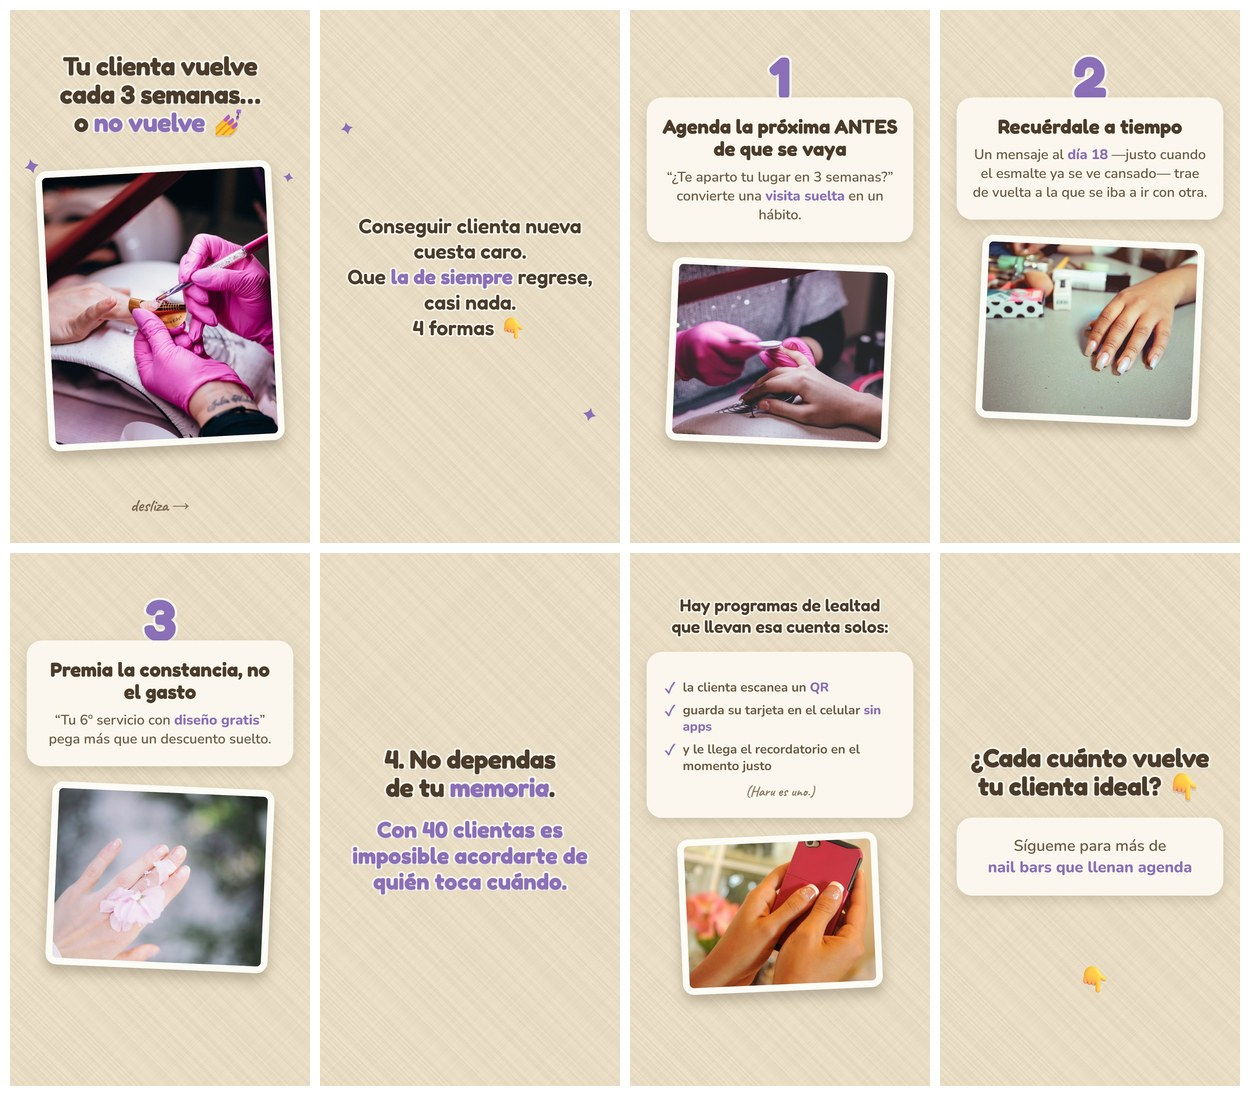
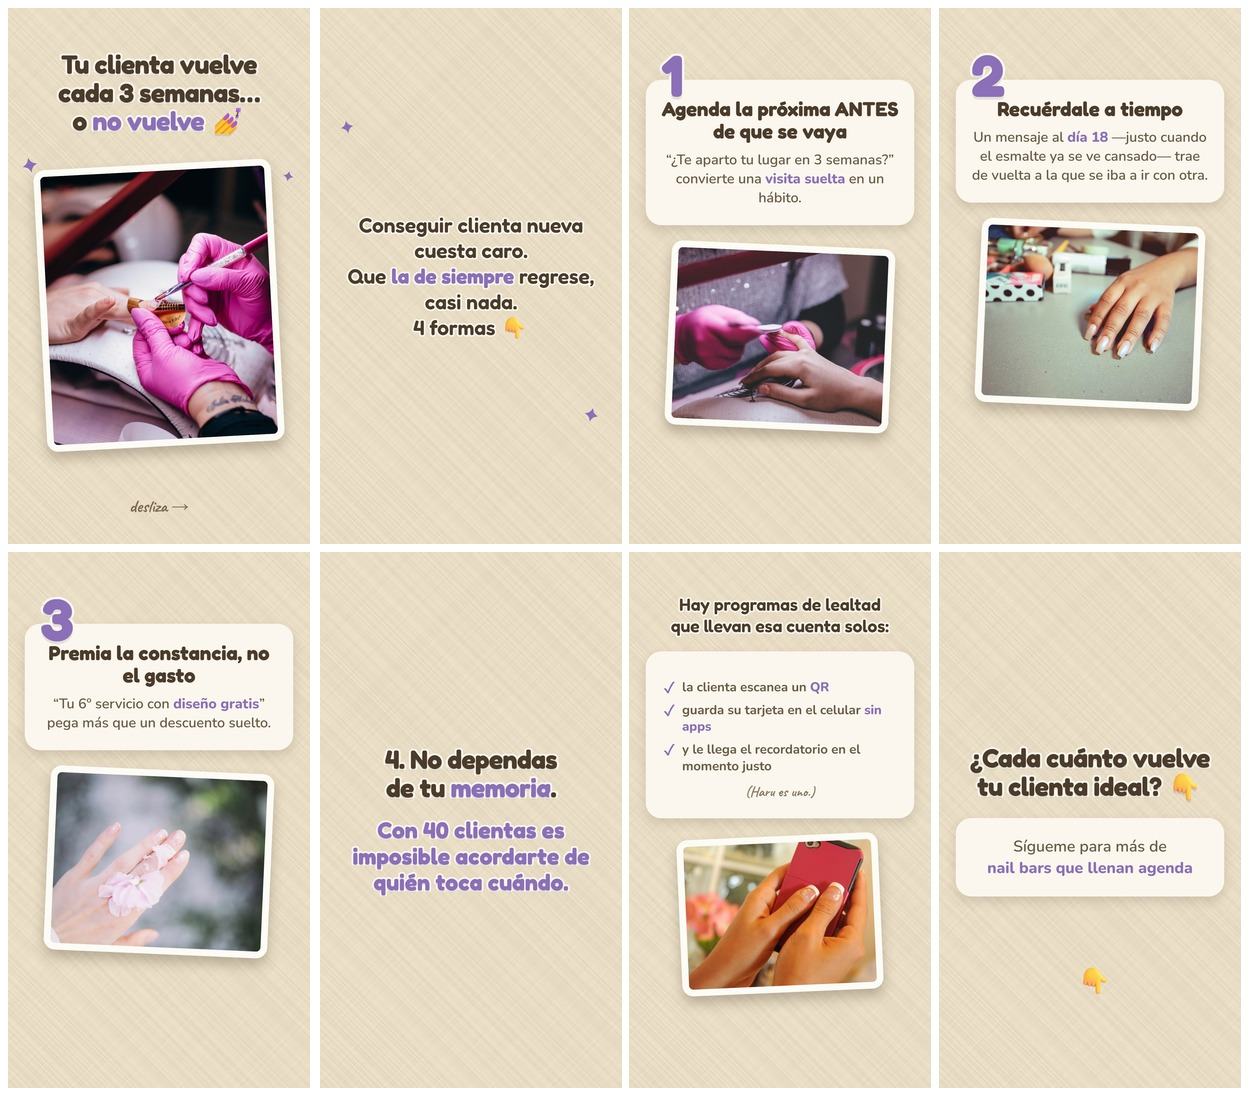
Tablero 16 jul: reporte del dia + carruseles pulidos (numeros sobre el marco)

diff --git a/index.html b/index.html
@@ -44,10 +44,10 @@
 <div class="wrap">
   <header>
     <h1>🗂️ Avances de Sebastián — CIMIENTO</h1>
-    <div class="sub">Tablero de pendientes para Luis · última actualización: 2026-07-16 18:44</div>
+    <div class="sub">Tablero de pendientes para Luis · última actualización: 2026-07-16 19:51</div>
   </header>
-  <div class="board"><div class="col"><div class="col-head">🚧 Bloqueos (necesito ayuda de Luis)<span class="cnt">1</span></div><div class="card">_(nada bloqueado ahora mismo)_</div></div><div class="col"><div class="col-head">📥 Por hacer<span class="cnt">5</span></div><div class="card"><strong>Contenido orgánico (Haru):</strong> <strong>crear la cuenta de marca de TikTok</strong> — es lo ÚNICO que falta para publicar: ya hay <strong>16 slides listas y 0 publicadas</strong><span class="due">🗓️ 2026-07-17</span></div><div class="card"><strong>Conexiones y Alianzas:</strong> Zoom con <strong>Mauricio Soto</strong> — <strong>hoy jue 16 jul, 8:00 pm</strong>; corporativo en CDMX, conexiones en el gobierno de CDMX, <strong>busca desarrollo de agentes (IA)</strong><span class="due">🗓️ 2026-07-16</span></div><div class="card"><strong>Haru ventas:</strong> hacer <strong>10+ contactos presenciales</strong><span class="due">🗓️ 2026-07-16</span></div><div class="card"><strong>Haru ventas:</strong> follow-up a Helnie</div><div class="card"><strong>Contenido orgánico (Haru):</strong> poner <strong>audio</strong> a los 2 carruseles y publicarlos (cadencia ~3/sem)</div></div><div class="col"><div class="col-head">🔨 En progreso<span class="cnt">6</span></div><div class="card"><strong>Haru ventas:</strong> <strong>Bark &amp; Bubbles / Diana</strong> (El Refugio) — dijo que <strong>se inscribe el fin de semana</strong> 🏆 → acompañarla en el alta para que no se enfríe<span class="due">🗓️ 2026-07-18</span></div><div class="card"><strong>Haru ventas:</strong> <strong>Pan de Campo</strong> (El Refugio) — esperando respuesta a la info que pidieron en la cita<span class="due">🗓️ 2026-07-18</span></div><div class="card"><strong>Haru ventas:</strong> <strong>La Rústica</strong> (El Refugio) — quedaron en revisar la info; falta el follow-up<span class="due">🗓️ 2026-07-17</span></div><div class="card"><strong>Haru ventas:</strong> recuperar negociaciones stalleadas — contactar competidores de <strong>Sirilo</strong> y <strong>Cafele</strong></div><div class="card"><strong>Automatización X · Luis:</strong> arrancar cadencia diaria (5 posts + 10 respuestas) — ventana 13 jul → 9 ago</div><div class="card"><strong>haru-leads (dev):</strong> reiniciar dashboard y probar filtros Vertical/Fit + el nuevo <strong>filtro/aprobación por zona</strong> + commitear</div></div><div class="col"><div class="col-head">👀 Revisión de Luis<span class="cnt">0</span></div><div class="empty">—</div></div><div class="col"><div class="col-head">✅ Hecho<span class="cnt">5</span></div><div class="card done">✅ <strong>Contenido orgánico (Haru):</strong> <strong>los 2 primeros carruseles COMPLETOS</strong> — Panadería y Uñas, 16 slides listas para publicar (ver Muestras) ✅ 2026-07-16</div><div class="card done">✅ <strong>Haru ventas:</strong> <strong>Bark &amp; Bubbles / Diana</strong> respondió a la propuesta — <strong>interesada, se inscribe el fin de semana</strong> ✅ 2026-07-16</div><div class="card done">✅ <strong>Automatización X · Luis:</strong> <strong>visto bueno de Luis a la selección de Kanye</strong> (74 tweets por época) — es el material que le da voz al motor ✅ 2026-07-16</div><div class="card done">✅ <strong>Automatización X · Luis:</strong> el <strong>motor ya corre de punta a punta</strong> en la compu — genera el batch del día por sí solo ✅ 2026-07-15</div><div class="card done">✅ <strong>Automatización X · Luis:</strong> <strong>recalibrada la voz</strong> — el primer batch real sonaba a IA; se reconstruyó con la voz real de Luis + los tweets de Kanye que él validó ✅ 2026-07-15</div></div></div>
+  <div class="board"><div class="col"><div class="col-head">🚧 Bloqueos (necesito ayuda de Luis)<span class="cnt">1</span></div><div class="card">_(nada bloqueado ahora mismo)_</div></div><div class="col"><div class="col-head">📥 Por hacer<span class="cnt">6</span></div><div class="card"><strong>Contenido orgánico (Haru):</strong> <strong>crear la cuenta de marca de TikTok</strong> — es lo ÚNICO que falta para publicar: ya hay <strong>16 slides listas y 0 publicadas</strong><span class="due">🗓️ 2026-07-17</span></div><div class="card"><strong>Conexiones y Alianzas:</strong> Zoom con <strong>Mauricio Soto</strong> — <strong>hoy jue 16 jul, 8:00 pm</strong>; corporativo en CDMX, conexiones en el gobierno de CDMX, <strong>busca desarrollo de agentes (IA)</strong><span class="due">🗓️ 2026-07-16</span></div><div class="card"><strong>Haru ventas:</strong> hacer <strong>10+ contactos presenciales</strong><span class="due">🗓️ 2026-07-16</span></div><div class="card"><strong>Haru ventas:</strong> follow-up a Helnie</div><div class="card"><strong>Contenido orgánico (Haru):</strong> poner <strong>audio</strong> a los 2 carruseles y publicarlos (cadencia ~3/sem)</div><div class="card"><strong>Automatización X · Luis:</strong> <strong>cargar los números</strong> de las publicaciones ya hechas — se captura gratis desde la app<span class="due">🗓️ 2026-07-17</span></div></div><div class="col"><div class="col-head">🔨 En progreso<span class="cnt">6</span></div><div class="card"><strong>Haru ventas:</strong> <strong>Bark &amp; Bubbles / Diana</strong> (El Refugio) — dijo que <strong>se inscribe el fin de semana</strong> 🏆 → acompañarla en el alta para que no se enfríe<span class="due">🗓️ 2026-07-18</span></div><div class="card"><strong>Haru ventas:</strong> <strong>Pan de Campo</strong> (El Refugio) — esperando respuesta a la info que pidieron en la cita<span class="due">🗓️ 2026-07-18</span></div><div class="card"><strong>Haru ventas:</strong> <strong>La Rústica</strong> (El Refugio) — quedaron en revisar la info; falta el follow-up<span class="due">🗓️ 2026-07-17</span></div><div class="card"><strong>Haru ventas:</strong> recuperar negociaciones stalleadas — contactar competidores de <strong>Sirilo</strong> y <strong>Cafele</strong></div><div class="card"><strong>Automatización X · Luis:</strong> arrancar cadencia diaria (5 posts + 10 respuestas) — ventana 13 jul → 9 ago</div><div class="card"><strong>haru-leads (dev):</strong> reiniciar dashboard y probar filtros Vertical/Fit + el nuevo <strong>filtro/aprobación por zona</strong> + commitear</div></div><div class="col"><div class="col-head">👀 Revisión de Luis<span class="cnt">0</span></div><div class="empty">—</div></div><div class="col"><div class="col-head">✅ Hecho<span class="cnt">8</span></div><div class="card done">✅ <strong>Automatización X · Luis:</strong> <strong>la voz nueva pasó la prueba</strong> — suena ~40% menos a IA que la anterior, y volvieron los posts de la gira por Asia ✅ 2026-07-16</div><div class="card done">✅ <strong>Automatización X · Luis:</strong> <strong>listo el tablero de resultados</strong> — para ver qué publicaciones funcionan y afinar el sistema con eso ✅ 2026-07-16</div><div class="card done">✅ <strong>Contenido orgánico (Haru):</strong> los 2 carruseles <strong>pulidos</strong> — los números montados sobre el marco, se ven diseñados y no armados con bloques (ver Muestras) ✅ 2026-07-16</div><div class="card done">✅ <strong>Contenido orgánico (Haru):</strong> <strong>los 2 primeros carruseles COMPLETOS</strong> — Panadería y Uñas, 16 slides listas para publicar (ver Muestras) ✅ 2026-07-16</div><div class="card done">✅ <strong>Haru ventas:</strong> <strong>Bark &amp; Bubbles / Diana</strong> respondió a la propuesta — <strong>interesada, se inscribe el fin de semana</strong> ✅ 2026-07-16</div><div class="card done">✅ <strong>Automatización X · Luis:</strong> <strong>visto bueno de Luis a la selección de Kanye</strong> (74 tweets por época) — es el material que le da voz al motor ✅ 2026-07-16</div><div class="card done">✅ <strong>Automatización X · Luis:</strong> el <strong>motor ya corre de punta a punta</strong> en la compu — genera el batch del día por sí solo ✅ 2026-07-15</div><div class="card done">✅ <strong>Automatización X · Luis:</strong> <strong>recalibrada la voz</strong> — el primer batch real sonaba a IA; se reconstruyó con la voz real de Luis + los tweets de Kanye que él validó ✅ 2026-07-15</div></div></div>
   <section class="report"><div class="col-head">🎨 Muestras de contenido (TikTok de Haru)<span class="cnt">2</span></div><figure class="muestra"><div class="muestra-cap">Panadería</div><div class="tira"><img src="muestras/carrusel-01-panaderia.jpg" alt="Carrusel de Panadería" loading="lazy"></div><figcaption>8 slides · &quot;3 formas gratis de llenar tu panadería un martes muerto&quot;</figcaption></figure><figure class="muestra"><div class="muestra-cap">Uñas / Nail bar</div><div class="tira"><img src="muestras/carrusel-02-unas.jpg" alt="Carrusel de Uñas / Nail bar" loading="lazy"></div><figcaption>8 slides · &quot;Tu clienta vuelve cada 3 semanas… o no vuelve&quot;</figcaption></figure></section>
-  <section class="report"><div class="col-head">📊 Reporte de fin de día<span class="cnt">1</span></div><div class="card done">✅ <strong>Miércoles 15 jul 2026</strong><div class="lines"><div><strong>Contenido para tu X:</strong> El día grande del sistema: quedó <strong>corriendo de punta a punta</strong> en la compu — ya genera el paquete de publicaciones del día por sí solo. Lo más valioso fue revisar el primer paquete real: <strong>sonaba a inteligencia artificial</strong> — todos los posts cerraban con la misma fórmula y reciclaban los ejemplos de la ficha. Reconstruí la voz desde tus publicaciones reales más los tweets de Kanye que aprobaste; gracias por ese visto bueno, es lo que le da carácter propio. <strong>Falta probar la voz nueva y dejar programado el arranque automático.</strong></div><div><strong>Contenido de Haru (TikTok):</strong> Ya son <strong>9 guiones de carrusel</strong> listos (cafeterías, bar, postres, panadería, uñas, barbería, veterinaria, gym, restaurante). Encontré por qué los diseños no daban el look: van montados sobre <strong>foto real</strong>, no sobre fondos planos. Todavía ninguno diseñado.</div><div><strong>Ventas (Haru):</strong> Día sin campo — anduve afónico, así que lo aproveché en escritorio.</div><div><strong>Para mañana:</strong> Cita con Pan de Campo, llamada con Mauricio Soto y retomar contactos en calle.</div></div></div></section>
+  <section class="report"><div class="col-head">📊 Reporte de fin de día<span class="cnt">2</span></div><div class="card done">✅ <strong>Jueves 16 jul 2026</strong><div class="lines"><div><strong>Contenido para tu X:</strong> La voz nueva pasó la prueba: <strong>suena menos a inteligencia artificial</strong> que la anterior y volvieron los posts de tu gira por Asia, que son los más fuertes que tienes porque son de primera mano. <strong>Ya empezamos a publicar.</strong> Además quedó listo el <strong>tablero de resultados</strong>: en cuanto carguemos los números vas a ver de un vistazo qué temas jalan y cuáles no, y el sistema ajusta la mezcla con eso. Revisé un análisis de <strong>21 cuentas top</strong> que sí crecieron en X: <strong>se crece por consistencia sostenida, no por un post viral</strong> —el viral llega cuando ya hay base— y para arrancar pesan más las <strong>respuestas de valor</strong> en conversaciones de cuentas grandes. Los <strong>posts cómicos</strong> son buena manera de atraer seguidores y luego mostrar autoridad con otros tipos de posts.</div><div><strong>Contenido de Haru (TikTok):</strong> Los 2 carruseles quedaron <strong>pulidos</strong> — los números ahora se montan sobre el marco y se ve diseñado, no armado con bloques (abajo en Muestras). <strong>Listos para subir: se suben mañana.</strong></div><div><strong>Ventas (Haru):</strong> Segundo día sin campo — sigo enfermo, así que otra vez lo aproveché en escritorio.</div><div><strong>Para mañana:</strong> Publicar en TikTok, publicar los posts de X y sacar los follow-ups pendientes — que se pueden hacer desde el escritorio si sigo así. Y aunque siga enfermo, <strong>llamadas</strong>.</div></div></div><div class="card done">✅ <strong>Miércoles 15 jul 2026</strong><div class="lines"><div><strong>Contenido para tu X:</strong> El día grande del sistema: quedó <strong>corriendo de punta a punta</strong> en la compu — ya genera el paquete de publicaciones del día por sí solo. Lo más valioso fue revisar el primer paquete real: <strong>sonaba a inteligencia artificial</strong> — todos los posts cerraban con la misma fórmula y reciclaban los ejemplos de la ficha. Reconstruí la voz desde tus publicaciones reales más los tweets de Kanye que aprobaste; gracias por ese visto bueno, es lo que le da carácter propio. <strong>Falta probar la voz nueva y dejar programado el arranque automático.</strong></div><div><strong>Contenido de Haru (TikTok):</strong> Ya son <strong>9 guiones de carrusel</strong> listos (cafeterías, bar, postres, panadería, uñas, barbería, veterinaria, gym, restaurante). Encontré por qué los diseños no daban el look: van montados sobre <strong>foto real</strong>, no sobre fondos planos. Todavía ninguno diseñado.</div><div><strong>Ventas (Haru):</strong> Día sin campo — anduve afónico, así que lo aproveché en escritorio.</div><div><strong>Para mañana:</strong> Cita con Pan de Campo, llamada con Mauricio Soto y retomar contactos en calle.</div></div></div></section>
   <footer>Se actualiza desde mi tablero en Obsidian. Solo lectura.</footer>
 </div></head></html>